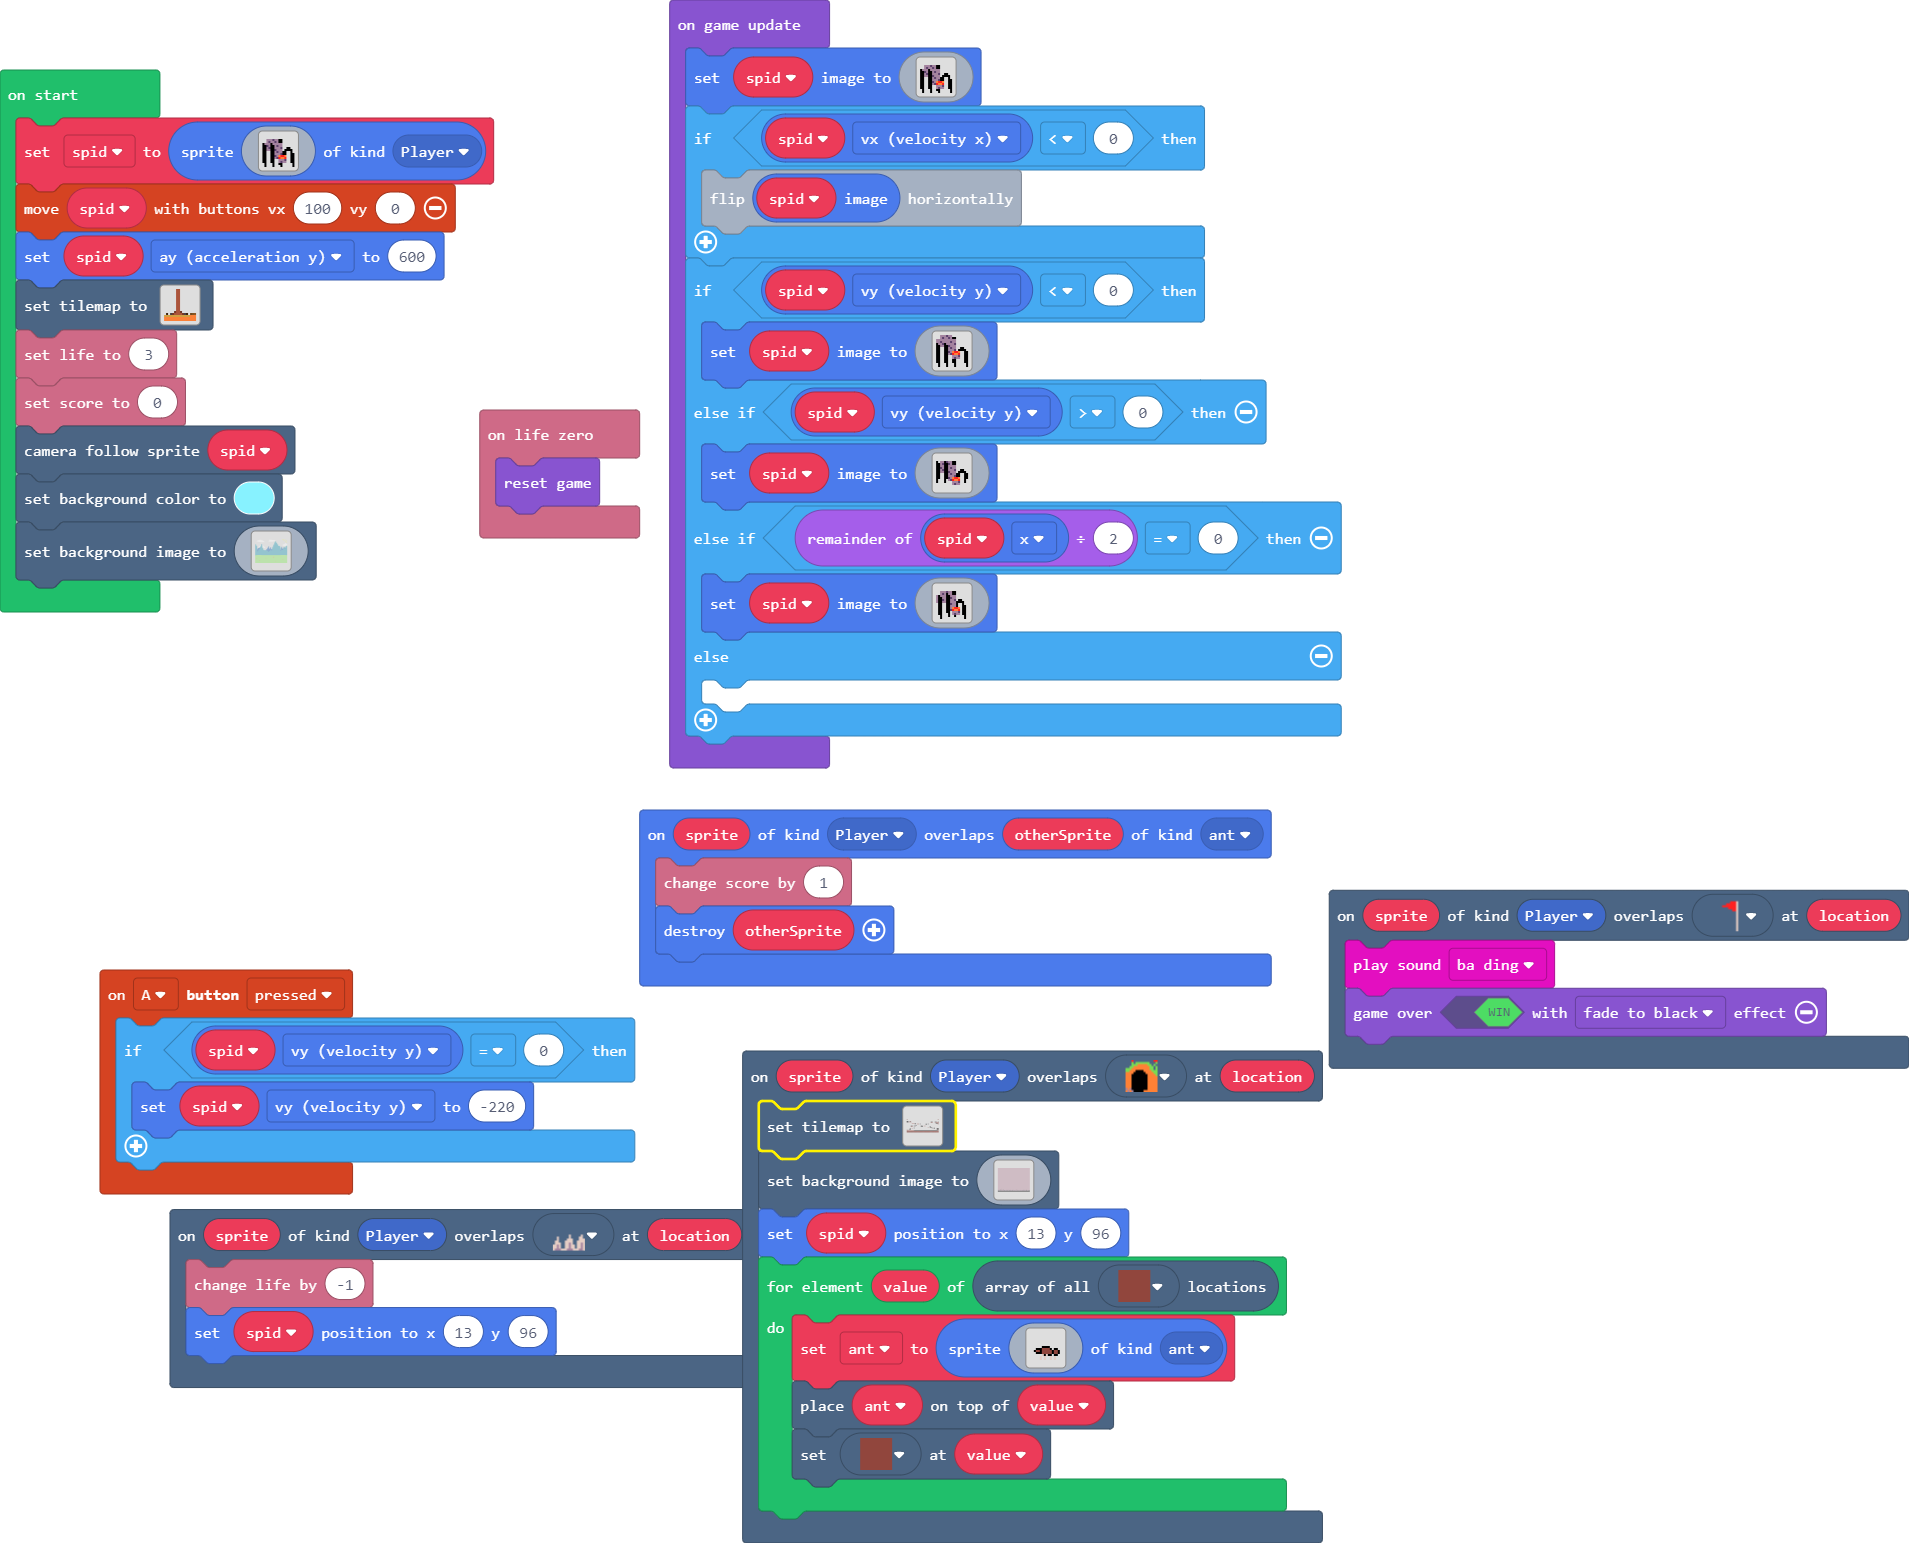
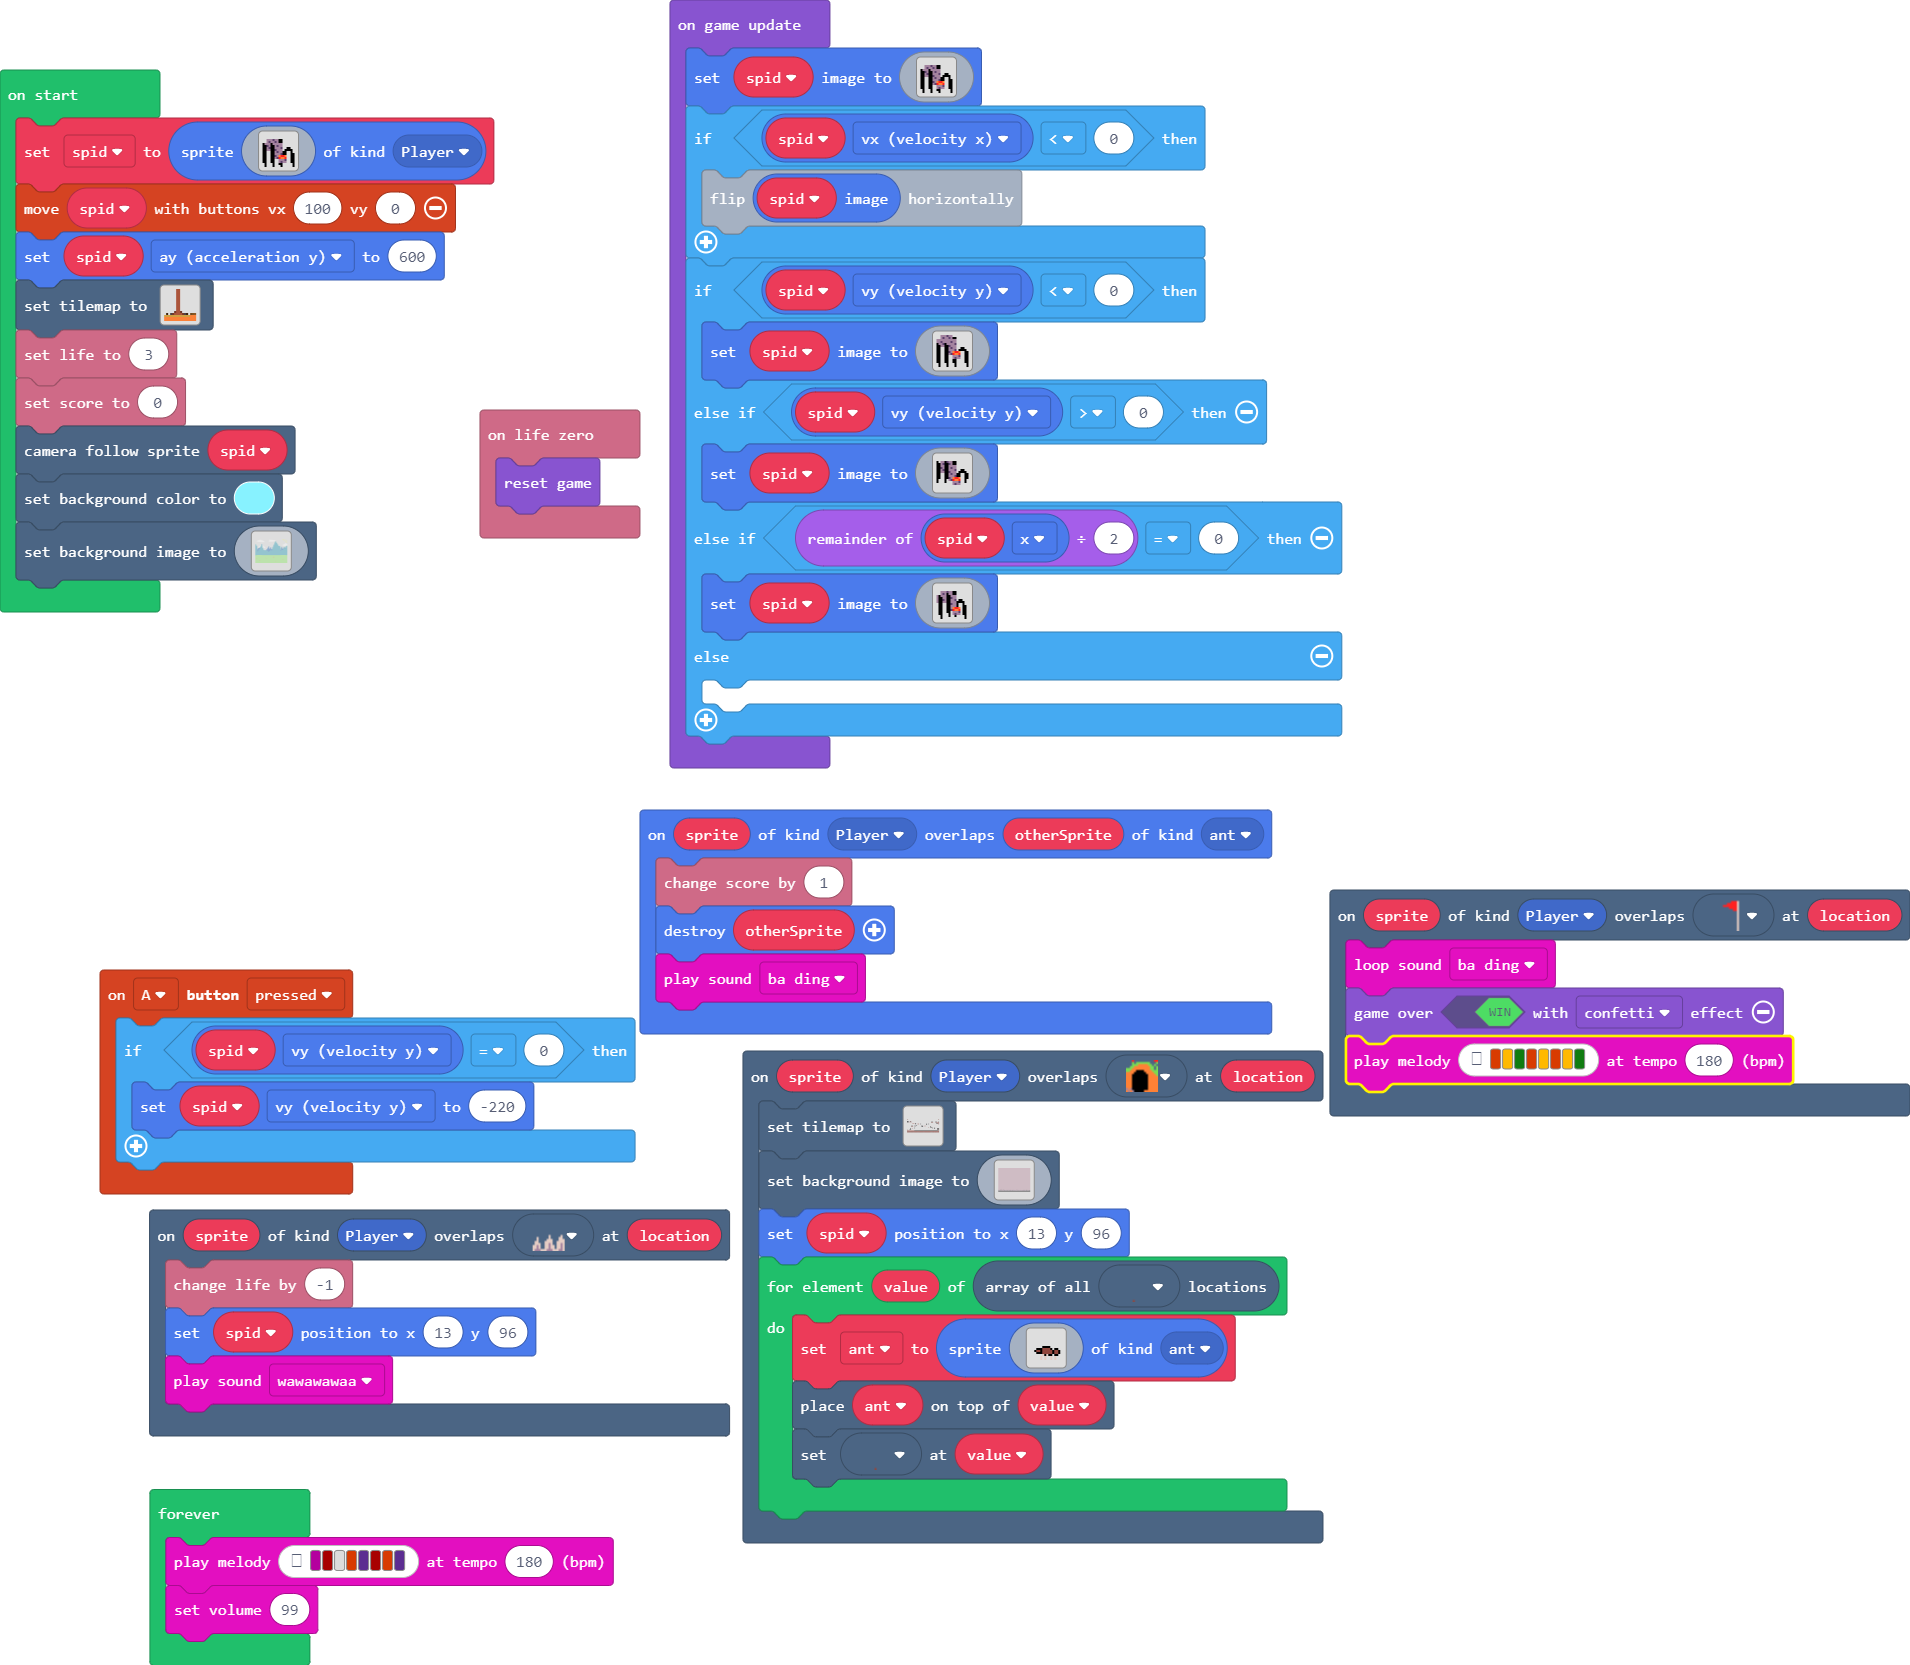
music

diff --git a/main.ts b/main.ts
@@ -595,6 +595,7 @@ d b b b d d d b b b d d d b b d
 scene.onOverlapTile(SpriteKind.Player, myTiles.tile32, function (sprite, location) {
     info.changeLifeBy(-1)
     spid.setPosition(13, 96)
+    music.wawawawaa.play()
 })
 scene.onOverlapTile(SpriteKind.Player, myTiles.tile17, function (sprite, location) {
     tiles.setTilemap(tiles.createTilemap(
@@ -771,8 +772,9 @@ f f f f f f f f f f f f f f f f f f f f f f f f f f f f f f f f f f f f f f f f 
     }
 })
 scene.onOverlapTile(SpriteKind.Player, myTiles.tile33, function (sprite, location) {
-    music.baDing.play()
-    game.over(true, color.FadeToBlack)
+    music.baDing.loop()
+    game.over(true, effects.confetti)
+    music.playMelody("B A G B A B A G ", 180)
 })
 controller.A.onEvent(ControllerButtonEvent.Pressed, function () {
     if (spid.vy == 0) {
@@ -782,6 +784,7 @@ controller.A.onEvent(ControllerButtonEvent.Pressed, function () {
 sprites.onOverlap(SpriteKind.Player, SpriteKind.ant, function (sprite, otherSprite) {
     info.changeScoreBy(1)
     otherSprite.destroy()
+    music.baDing.play()
 })
 info.onLifeZero(function () {
     game.reset()
@@ -1039,4 +1042,8 @@ b f f b b f f b b b f f f f . .
     } else {
     	
     }
+})
+forever(function () {
+    music.playMelody("C C5 - B D C5 B D ", 180)
+    music.setVolume(99)
 })
